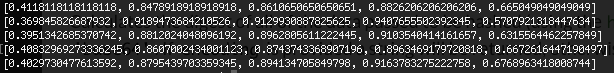
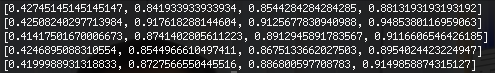
experiment with average

diff --git a/experiments/displacement.py b/experiments/displacement.py
@@ -6,58 +6,67 @@ from algorithms.EM import em
 from algorithms.PageRank import page_rank
 from algorithms.borda_ordering import borda_ordering
 from algorithms.random_circle_removal import random_circle_removal
-from algorithms.weighted_graph import weighted_graph
 from utils.gradings import get_gradings
 
-n = 1000
-k = 6
-ranking_algo = ['random_circle_removal', 'page_rank', 'em', 'borda', 'weighted_graph']
+ranking_algo = ['random_circle_removal', 'page_rank', 'em', 'borda']
 
-def displacement(rankings):
+def displacement(rankings, n, m):
     displacement_percentage = [0, 0.05, 0.1, 0.15, 0.2, 0.25, 0.3, 0.35, 0.4, 0.45, 0.5, 0.55, 0.6]
     displacements = []
 
-    for ranking in rankings:
-        number = {percentage: 0 for percentage in displacement_percentage}
-        for i in range(1, n + 1):
-            for percentage in displacement_percentage:
-                if abs(ranking[i - 1] - i) / n >= percentage:
-                    number[percentage] += 1
-        displacements.append([number[p] / n for p in displacement_percentage])
-
+    for ranking_set in rankings:
+        temp = [0 for x in displacement_percentage]
+        for ranking in ranking_set:
+            number = {percentage: 0 for percentage in displacement_percentage}
+            for i in range(1, n + 1):
+                for percentage in displacement_percentage:
+                    if abs(ranking[i - 1] - i) / n >= percentage:
+                        number[percentage] += 1
+            for p in range(len(displacement_percentage)):
+                temp[p] += number[displacement_percentage[p]] / n
+        temp = [x / m for x in temp]
+        displacements.append(temp)
     return displacement_percentage, displacements
 
-def interval_displacement(rankings):
-    plt.figure(2)
+def interval_displacement(rankings, n, m):
     displacement_percentage = [0.05, 0.1, 0.15, 0.2, 0.25, 0.3, 0.35, 0.4, 0.45, 0.5, 0.55, 0.6, 0.65, 0.7, 0.75, 0.8, 0.85, 0.9, 0.95, 1]
     displacements = []
 
-    for ranking in rankings:
-        number = {percentage: 0 for percentage in displacement_percentage}
-        for j in range(len(displacement_percentage)):
-            s = set(ranking[0: int(displacement_percentage[j] * n)])
-            for i in range(1, n + 1):
-                if i > displacement_percentage[j] * n:
-                    break
-                if i in s:
-                    number[displacement_percentage[j]] += 1
-        displacements.append([number[p] / (n * p) for p in displacement_percentage])
+    for ranking_set in rankings:
+        temp = [0 for x in displacement_percentage]
+        for ranking in ranking_set:
+            number = {percentage: 0 for percentage in displacement_percentage}
+            for j in range(len(displacement_percentage)):
+                s = set(ranking[0: int(displacement_percentage[j] * n)])
+                for i in range(1, n + 1):
+                    if i > displacement_percentage[j] * n:
+                        break
+                    if i in s:
+                        number[displacement_percentage[j]] += 1
+            for p in range(len(displacement_percentage)):
+                temp[p] += number[displacement_percentage[p]] / (n * displacement_percentage[p])
+        temp = [x / m for x in temp]
+        displacements.append(temp)
 
     return displacement_percentage, displacements
 
-def distribution20(rankings):
-    plt.figure(3)
+def distribution20(rankings, n, m):
     interval_percentage = [0.1, 0.15, 0.2, 0.25, 0.3, 0.35, 0.4, 0.45, 0.5, 0.55, 0.6, 0.65, 0.7, 0.75]
     distributions = []
 
-    for ranking in rankings:
-        r = set(ranking[0: int(n * 0.2)])
-        number = {percentage: 0 for percentage in interval_percentage}
-        for i in interval_percentage:
-            for j in range(int(n * (i - 0.05) + 1), int(n * i + 1)):
-                if j in r:
-                    number[i] += 1
-        distributions.append([number[p] / (n * 0.05) for p in interval_percentage])
+    for ranking_set in rankings:
+        temp = [0 for x in interval_percentage]
+        for ranking in ranking_set:
+            r = set(ranking[0: int(n * 0.2)])
+            number = {percentage: 0 for percentage in interval_percentage}
+            for i in interval_percentage:
+                for j in range(int(n * (i - 0.05) + 1), int(n * i + 1)):
+                    if j in r:
+                        number[i] += 1
+            for p in range(len(interval_percentage)):
+                temp[p] += number[interval_percentage[p]] / (n * 0.05)
+        temp = [x / m for x in temp]
+        distributions.append(temp)
 
     return interval_percentage, distributions
 
@@ -74,17 +83,29 @@ def display(x, y, id):
     plt.show()
 
 if __name__ == '__main__':
+    n, k, m = 1000, 6, 10
     gradings = get_gradings(n, k)
-    ranking_rcr = random_circle_removal(gradings)
-    ranking_pr = page_rank(gradings)
-    ranking_em = em(gradings)
-    ranking_b = borda_ordering(gradings)
-    ranking_wg = weighted_graph()
-    rankings = [ranking_rcr, ranking_pr, ranking_em, ranking_b, ranking_wg]
+    rankings_rcr = []
+    rankings_pr = []
+    rankings_em = []
+    rankings_borda = []
+    rankings = []
 
-    x, y = displacement(rankings)
+    for i in range(m):
+        if n <= 1000:
+            rankings_rcr.append(random_circle_removal(gradings))
+            rankings_pr.append(page_rank(gradings))
+        rankings_em.append(em(gradings))
+        rankings_borda.append(borda_ordering(gradings))
+    if n <= 1000:
+        rankings.append(rankings_rcr)
+        rankings.append(rankings_pr)
+    rankings.append(rankings_em)
+    rankings.append(rankings_borda)
+
+    x, y = displacement(rankings, n, m)
     display(x, y, 1)
-    x, y = interval_displacement(rankings)
+    x, y = interval_displacement(rankings, n, m)
     display(x, y, 2)
-    x, y = distribution20(rankings)
+    x, y = distribution20(rankings, n, m)
     display(x, y, 3)

diff --git a/experiments/statistics.py b/experiments/statistics.py
@@ -6,7 +6,6 @@ from algorithms.EM import em
 from algorithms.PageRank import page_rank
 from algorithms.borda_ordering import borda_ordering
 from algorithms.random_circle_removal import random_circle_removal
-from algorithms.weighted_graph import weighted_graph
 from utils.gradings import get_gradings
 
 
@@ -49,107 +48,29 @@ def display(x, y, xlabel, ylabel, axis, id):
 
 if __name__ == '__main__':
     gradings = get_gradings(1000, 6)
-    all2all = []
-    th10 = []
-    th50 = []
-    acc2 = []
-    acc5 = []
+    m = 10
+    algos = [random_circle_removal, page_rank, em, borda_ordering]
+    all2alls = [0 for x in algos]
+    th10s = [0 for x in algos]
+    th50s = [0 for x in algos]
+    acc2s = [0 for x in algos]
+    acc5s = [0 for x in algos]
+    for i in range(m):
+        for j in range(len(algos)):
+            ranking = algos[j](gradings)
+            all2alls[j] += th(ranking, 1)
+            th10s[j] += th(ranking, 0.1)
+            th50s[j] += th(ranking, 0.5)
+            acc2s[j] += acc(ranking, 0.02)
+            acc5s[j] += acc(ranking, 0.05)
+    all2alls = [x / m for x in all2alls]
+    th10s = [x / m for x in th10s]
+    th50s = [x / m for x in th50s]
+    acc2s = [x / m for x in acc2s]
+    acc5s = [x / m for x in acc5s]
 
-    ranking = random_circle_removal(gradings)
-    all2all.append(th(ranking, 1))
-    th10.append(th(ranking, 0.1))
-    th50.append(th(ranking, 0.5))
-    acc2.append(acc(ranking, 0.02))
-    acc5.append(acc(ranking, 0.05))
-
-    ranking = page_rank(gradings)
-    all2all.append(th(ranking, 1))
-    th10.append(th(ranking, 0.1))
-    th50.append(th(ranking, 0.5))
-    acc2.append(acc(ranking, 0.02))
-    acc5.append(acc(ranking, 0.05))
-
-    ranking = em(gradings)
-    all2all.append(th(ranking, 1))
-    th10.append(th(ranking, 0.1))
-    th50.append(th(ranking, 0.5))
-    acc2.append(acc(ranking, 0.02))
-    acc5.append(acc(ranking, 0.05))
-
-    ranking = borda_ordering(gradings)
-    all2all.append(th(ranking, 1))
-    th10.append(th(ranking, 0.1))
-    th50.append(th(ranking, 0.5))
-    acc2.append(acc(ranking, 0.02))
-    acc5.append(acc(ranking, 0.05))
-
-    ranking = weighted_graph();
-    all2all.append(th(ranking, 1))
-    th10.append(th(ranking, 0.1))
-    th50.append(th(ranking, 0.5))
-    acc2.append(acc(ranking, 0.02))
-    acc5.append(acc(ranking, 0.05))
-
-    print(all2all)
-    print(th10)
-    print(th50)
-    print(acc2)
-    print(acc5)
-
-    # all2all_rcr = []
-    # th10_rcr = []
-    # acc5_rcr = []
-    #
-    # all2all_pr = []
-    # th10_pr = []
-    # acc5_pr = []
-    #
-    # all2all_em = []
-    # th10_em = []
-    # acc5_em = []
-    #
-    # all2all_borda = []
-    # th10_borda = []
-    # acc5_borda = []
-    #
-    # k = 100
-    # for i in range(k):
-    #     print(i)
-    #     gradings = get_gradings(1000, 6)
-    #
-    #     ranking = random_circle_removal(gradings)
-    #     all2all_rcr.append(th(ranking, 1))
-    #     th10_rcr.append(th(ranking, 0.1))
-    #     acc5_rcr.append(acc(ranking, 0.05))
-    #
-    #     ranking = borda_ordering(gradings)
-    #     all2all_borda.append(th(ranking, 1));
-    #     th10_borda.append(th(ranking, 0.1))
-    #     acc5_borda.append(acc(ranking, 0.05))
-    #
-    #     ranking = page_rank(gradings)
-    #     all2all_pr.append(th(ranking, 1));
-    #     th10_pr.append(th(ranking, 0.1))
-    #     acc5_pr.append(acc(ranking, 0.05))
-    #
-    #     ranking = em(gradings)
-    #     all2all_em.append(th(ranking, 1))
-    #     th10_em.append(th(ranking, 0.1))
-    #     acc5_em.append(acc(ranking, 0.05))
-    #
-    # rcr_borda = [[all2all_rcr, all2all_borda, 'rcr_all2all', 'borda_all2all', [0.88, 0.9, 0.41, 0.43]],
-    #     [th10_rcr, th10_borda, 'rcr_th10', 'borda_th10', [0.95, 0.97, 0.40, 0.42]],
-    #     [acc5_rcr, acc5_borda, 'rcr_acc5', 'borda_acc5', [0.91, 0.93, 0.41, 0.43]]]
-    # pr_borda = [[all2all_pr, all2all_borda, 'pr_all2all', 'borda_all2all', [0.88, 0.9, 0.84, 0.86]],
-    #     [th10_pr, th10_borda, 'pr_th10', 'borda_th10', [0.95, 0.97, 0.90, 0.92]],
-    #     [acc5_pr, acc5_borda, 'pr_acc5', 'borda_acc5', [0.91, 0.93, 0.88, 0.90]]]
-    # em_borda = [[all2all_em, all2all_borda, 'em_all2all', 'borda_all2all', [0.88, 0.9, 0.86, 0.88]],
-    #     [th10_em, th10_borda, 'em_th10', 'borda_th10', [0.95, 0.97, 0.92, 0.94]],
-    #     [acc5_em, acc5_borda, 'em_acc5', 'borda_acc5', [0.91, 0.93, 0.90, 0.92]]]
-    # cmp = [rcr_borda, pr_borda, em_borda]
-    #
-    # id = 1
-    # for comparisons in cmp:
-    #     for comparison in comparisons:
-    #         display(comparison[1], comparison[0], comparison[3], comparison[2], comparison[4], id)
-    #         id += 1
+    print(all2alls)
+    print(th10s)
+    print(th50s)
+    print(acc2s)
+    print(acc5s)

diff --git a/experiments/complexity.py b/experiments/complexity.py
@@ -1,0 +1,46 @@
+#!/usr/bin/python3
+
+import matplotlib.pyplot as plt
+
+from algorithms.EM import em
+from algorithms.PageRank import page_rank
+from algorithms.borda_ordering import borda_ordering
+from utils.gradings import get_gradings
+from datetime import datetime
+
+def complexity(algorithm, ranking, m):
+    time = 0
+    for i in range(m):
+        start = datetime.now()
+        algorithm(ranking)
+        end = datetime.now()
+        time += (end - start).total_seconds()
+    return time / m
+
+def display(x, y, id):
+    plt.figure(id)
+    ranking_algo = ['em', 'borda']
+
+    handles = []
+    for i in range(len(y)):
+        line, = plt.plot(x, y[i], label = ranking_algo[i])
+        handles.append(line)
+    plt.legend(handles = handles)
+    plt.ylabel('time(second)')
+    plt.xlabel('numnber of student')
+    plt.show()
+
+if __name__ == '__main__':
+    m = 10
+    n = [1000, 2000, 3000, 4000, 5000, 6000, 7000, 8000, 9000, 10000]
+    k = 6
+
+    algos = [em, borda_ordering]
+    all_times = []
+    for algo in algos:
+        times = []
+        for i in n:
+            gradings = get_gradings(i, k)
+            times.append(complexity(algo, gradings, m));
+        all_times.append(times);
+    display(n, all_times, 1)

diff --git a/utils/bundle_graph.py b/utils/bundle_graph.py
@@ -87,8 +87,8 @@ def create_bundle_graph(n, k):
 if __name__ == '__main__':
     plt.figure(1)
     m = 10
-    n = [100, 250, 500, 750, 1000, 1250, 1500, 1750, 2000]
-    k = [6, 6, 6, 6, 6, 6, 6, 6, 6]
+    n = [1000, 2000, 3000, 4000, 5000, 6000, 7000, 8000, 9000, 10000]
+    k = [6, 6, 6, 6, 6, 6, 6, 6, 6, 6]
     trial = []
     time = []
     for i in range(len(n)):
@@ -110,8 +110,8 @@ if __name__ == '__main__':
     plt.ylabel('number of trial with k fixed to 6')
     plt.show()
 
-    n = [1000, 1000, 1000, 1000, 1000, 1000, 1000, 1000, 1000, 1000]
-    k = [1, 2, 4, 6, 8, 10, 12, 14, 16, 18]
+    n = [10000, 10000, 10000, 10000, 10000, 10000, 10000, 10000, 10000, 10000]
+    k = [6, 10, 14, 18, 22, 26, 30, 34, 38, 42]
     trial = []
     time = []
     for i in range(len(n)):
@@ -126,9 +126,9 @@ if __name__ == '__main__':
         trial[i] = trial[i] / m
     plt.subplot(223)
     plt.plot(k, time)
-    plt.ylabel('time with n fixed to 1000')
+    plt.ylabel('time with n fixed to 10000')
     plt.show()
     plt.subplot(224)
     plt.plot(k, trial)
-    plt.ylabel('number of trial with n fixed to 1000')
+    plt.ylabel('number of trial with n fixed to 10000')
     plt.show()
